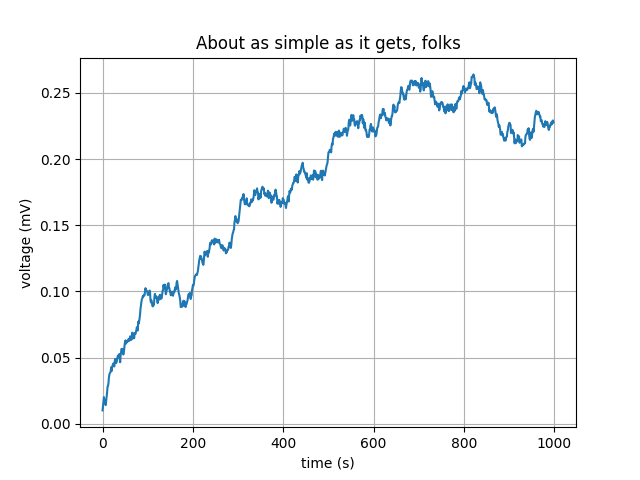
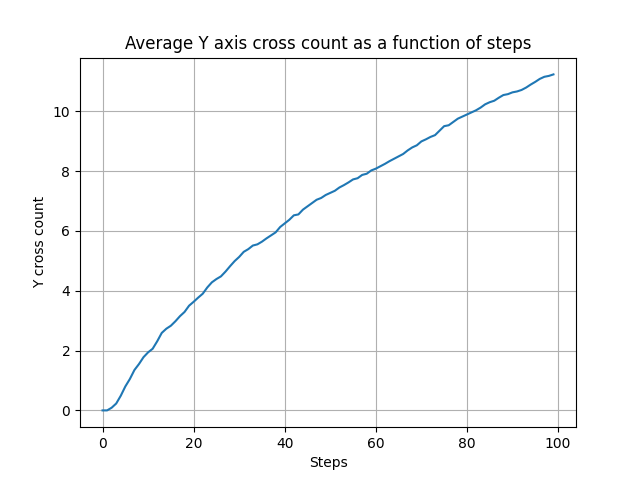
Improved the UI and made the graphs not crash the program.

diff --git a/start_frame.py b/start_frame.py
@@ -15,16 +15,8 @@ class StartFrame(ctk.CTkFrame):
 
         self.visual_var = ctk.BooleanVar(self, value=False)
         self.progress_var = ctk.DoubleVar(self, value=0)
-
-        self.visual_toggle = ctk.CTkSwitch(
-            self,
-            self.widget_width,
-            text=":Visual",
-            variable=self.visual_var,
-            onvalue=True,
-            offvalue=False,
-            button_color=colors.WHITE,
-        )
+        
+        self.horizontal_frame = ctk.CTkFrame(self)
 
         self.start_button = ctk.CTkButton(
             self,
@@ -34,30 +26,62 @@ class StartFrame(ctk.CTkFrame):
             fg_color=colors.RED,
         )
         
-        self.progress_bar = ctk.CTkProgressBar(self,
+        self.visual_toggle = ctk.CTkSwitch(
+            self.horizontal_frame,
+            self.widget_width,
+            text=":Visual",
+            variable=self.visual_var,
+            onvalue=True,
+            offvalue=False,
+            button_color=colors.WHITE,
+        )
+
+        self.progress_bar = ctk.CTkProgressBar(
+            self,
             self.widget_width * 2,
             corner_radius=5,
             variable=self.progress_var,
         )
 
-        self.graph_output_folder_widget = ctk.CTkEntry(self, self.widget_width * 2, placeholder_text="Graph output file:",corner_radius=5)
+        self.graph_output_folder_widget = ctk.CTkEntry(
+            self.horizontal_frame,
+            self.widget_width * 2,
+            placeholder_text="Graph output file:",
+            corner_radius=5,
+        )
 
-        self.simulation_count_widget = Spinbox(self, width=self.widget_width, starting_value=500, text="Simulation count")
-        self.max_steps_widget = Spinbox(self, width=self.widget_width, starting_value=100, text="Max steps")
+        self.simulation_count_widget = Spinbox(
+            self.horizontal_frame,
+            width=self.widget_width,
+            starting_value=500,
+            text="Simulation count",
+        )
+        self.max_steps_widget = Spinbox(
+            self.horizontal_frame,
+            width=self.widget_width,
+            starting_value=100,
+            text="Max steps",
+        )
 
 
         # layout
-        self.graph_output_folder_widget.grid(row=0, column=3, padx=self.padding, pady=self.padding)
-        self.max_steps_widget.grid(row=0, column=2, padx=self.padding, pady=self.padding)
-        self.simulation_count_widget.grid(row=0, column=1, padx=self.padding, pady=self.padding)
-        self.visual_toggle.grid(row=0, column=0, padx=self.padding, pady=self.padding)
-        self.start_button.grid(row=1, column=1, padx=self.padding, pady=self.padding)
+        self.graph_output_folder_widget.pack(side="right", expand=True, padx=self.padding, pady=self.padding)
+        self.max_steps_widget.pack(side="right", expand=True, padx=self.padding, pady=self.padding)
+        self.simulation_count_widget.pack(side="right", expand=True, padx=self.padding, pady=self.padding)
+        self.visual_toggle.pack(side="right", expand=True, padx=self.padding, pady=self.padding)
+        self.horizontal_frame.pack(expand=True, padx=self.padding, pady=self.padding)
+        
+        self.start_button.pack(expand=True, padx=self.padding, pady=self.padding)
 
     def start(self):
-        self.progress_bar.grid(row=2, column=1, padx=self.padding, pady=self.padding)
+        self.progress_bar.pack(expand=True, padx=self.padding, pady=self.padding)
         self.master.start_simulation(self.visual_var.get(),
                                      self.progress_var,
                                      simulation_count=self.simulation_count_widget.get(),
                                      max_steps=self.max_steps_widget.get(),
                                      graph_output_folder=self.graph_output_folder_widget.get(),
                                     )
+
+
+    def stop(self):
+        self.progress_bar.pack_forget()

diff --git a/simulation.py b/simulation.py
@@ -53,9 +53,9 @@ class Simulation:
                        y_cross_count_list: List[float]):
         data = {
             "distance": distance_list,
-            "x_distance": x_distance_list,
-            "y_distance": y_distance_list,
-            "z_distance": z_distance_list,
+            "xdistance": x_distance_list,
+            "ydistance": y_distance_list,
+            "zdistance": z_distance_list,
             "time_to_leave": average_time_to_leave,
             "y_cross_count_list": y_cross_count_list,
         }
@@ -127,7 +127,7 @@ class Simulation:
                             average_time_to_leave, y_cross_count_list)
         
         if graph_output_path:
-            self.generate_graphs(log_path, graph_output_path)
+            self.generate_graphs(log_path, graph_output_path, walker.is_3d())
 
     def run_visual(self, event: Event):
         self.__screen.run(event)
@@ -135,5 +135,10 @@ class Simulation:
     def stop(self):
         self.__screen.stop()
 
-    def generate_graphs(self, log_path: str, output_path: str):
+    def generate_graphs(self, log_path: str, output_path: str, is_3d: bool):
         graph.distance_graph(log_path, output_path)
+        graph.distance_graph(log_path, output_path, "x")
+        graph.distance_graph(log_path, output_path, "y")
+        graph.cross_amount_graph(log_path, output_path)
+        if is_3d:
+            graph.distance_graph(log_path, output_path, "z")

diff --git a/graph.py b/graph.py
@@ -1,22 +1,38 @@
 import matplotlib.pyplot as plt
+import matplotlib
 import numpy as np
 import json
 
+matplotlib.use('Agg')
 
 def read_json(path: str):
     with open(path, 'r') as f:
         return json.load(f)
 
-def distance_graph(data_path: str, output_path: str):
+def distance_graph(data_path: str, output_path: str, axis: str=""):
     
-    data = read_json(data_path)["distance"]
+    data = read_json(data_path)[f"{axis}distance"]
 
     fig, ax = plt.subplots()
     ax.plot(range(len(data)), data)
 
-    ax.set(xlabel='time (s)', ylabel='voltage (mV)',
-        title='About as simple as it gets, folks')
+    ax.set(xlabel='Steps', ylabel='Distance',
+        title=f"Average {axis}distance as a function of steps")
     ax.grid()
 
-    fig.savefig(output_path)
-    plt.show()
+    fig.savefig(f"{output_path}-{axis}distance.png")
+    plt.close(fig)
+    
+def cross_amount_graph(data_path: str, output_path: str):
+    
+    data = read_json(data_path)["y_cross_count_list"]
+
+    fig, ax = plt.subplots()
+    ax.plot(range(len(data)), data)
+
+    ax.set(xlabel='Steps', ylabel='Y cross count',
+        title='Average Y axis cross count as a function of steps')
+    ax.grid()
+
+    fig.savefig(f"{output_path}-cross-count.png")
+    plt.close(fig)

diff --git a/walker.py b/walker.py
@@ -9,10 +9,10 @@ class Walker(ABC):
     def __init__(self, name: str) -> None:
         super().__init__()
         
-        self.__name = name
+        self._name = name
 
-        self.__location = (0, 0, 0)
-        self.__is_3d: bool
+        self._location = (0, 0, 0)
+        self._is_3d: bool
 
     @abstractmethod
     def _generate_move_radius(self) -> float:
@@ -27,16 +27,19 @@ class Walker(ABC):
         return Move(angle[0], self._generate_move_radius(), angle[1])
 
     def get_name(self) -> str:
-        return self.__name
+        return self._name
+    
+    def is_3d(self) -> bool:
+        return self._is_3d
 
     def get_location(self):
-        return self.__location
+        return self._location
 
     def move(self, move: Move):
-        self.__location = math_functions.add_move(self.__location, move)
+        self._location = math_functions.add_move(self._location, move)
 
     def move_to(self, location: vector3):
-        self.__location = location
+        self._location = location
 
     def reset(self):
-        self.__location = (0, 0, 0)
+        self._location = (0, 0, 0)

diff --git a/main_frame.py b/main_frame.py
@@ -53,7 +53,7 @@ class MainFrame(ctk.CTkFrame):
         for walker in self.walker_config_frame.get_walkers():
             output_path = None
             if graph_output_folder:
-                output_path = f"{graph_output_folder}\\{walker.get_name()}.png"
+                output_path = f"{graph_output_folder}\\{walker.get_name()}"
             
             walker_thread = threading.Thread(
                 target=self.simulation.simulate,
@@ -68,6 +68,7 @@ class MainFrame(ctk.CTkFrame):
     def wait_to_stop(self, walker_thread_list: List[threading.Thread]):
         if all([not walker_thread.is_alive() for walker_thread in walker_thread_list]):
             self.simulation.stop()
+            self.start_frame.stop()
         else:
             self.after(50, self.wait_to_stop, walker_thread_list)
 

diff --git a/biased_walker.py b/biased_walker.py
@@ -19,7 +19,7 @@ class BiasedWalker(Walker):
     def __init__(self, name: str, is_3d: bool, bias: str, bias_scale=1) -> None:
         super().__init__(name)
 
-        self.__is_3d = is_3d
+        self._is_3d = is_3d
         self.bias = bias
         self.bias_scale = bias_scale
 
@@ -44,7 +44,7 @@ class BiasedWalker(Walker):
                 + math.pi
             )
 
-        if self.__is_3d:
+        if self._is_3d:
             # adding the yaw and pitch change partially to both axis
             new_yaw = yaw + math.cos(change_direction) * changee_magnitude
             new_pitch = pitch + math.sin(change_direction) * changee_magnitude

diff --git a/random_walker.py b/random_walker.py
@@ -9,14 +9,14 @@ class RandomWalker(Walker):
     def __init__(self, name: str, is_3d: bool) -> None:
         super().__init__(name)
 
-        self.__is_3d = is_3d
+        self._is_3d = is_3d
 
     def _generate_move_radius(self) -> float:
         return 0.5 + random.random()
 
     def _generate_move_angle(self) -> Tuple[float, float]:
         result = None
-        if self.__is_3d:
+        if self._is_3d:
             result = (math_functions.random_angle(), math_functions.random_angle())
         else:
             result = (math_functions.random_angle(), 0)

diff --git a/random_angle_walker.py b/random_angle_walker.py
@@ -8,14 +8,14 @@ class RandomAngleWalker(Walker):
     def __init__(self, name: str, is_3d: bool) -> None:
         super().__init__(name)
 
-        self.__is_3d = is_3d
+        self._is_3d = is_3d
 
     def _generate_move_radius(self) -> float:
         return 1
 
     def _generate_move_angle(self) -> Tuple[float, float]:
         result = None
-        if self.__is_3d:
+        if self._is_3d:
             result = (math_functions.random_angle(), math_functions.random_angle())
         else:
             result = (math_functions.random_angle(), 0)

diff --git a/straight_walker.py b/straight_walker.py
@@ -9,14 +9,14 @@ class StraightWalker(Walker):
     def __init__(self, name: str, is_3d: bool) -> None:
         super().__init__(name)
 
-        self.__is_3d = is_3d
+        self._is_3d = is_3d
 
     def _generate_move_radius(self) -> float:
         return 1
 
     def _generate_move_angle(self) -> Tuple[float, float]:
         result = None
-        if self.__is_3d:
+        if self._is_3d:
             random_int = random.randint(0, 5)
             if random_int >= 4:
                 result = (0, (random_int - 4.5) * math.pi)
